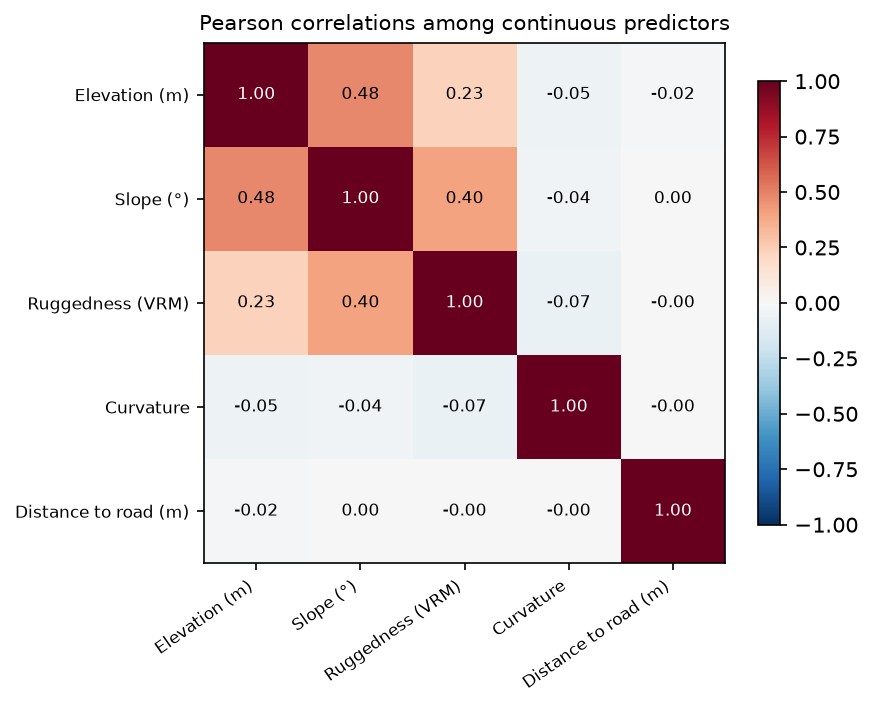
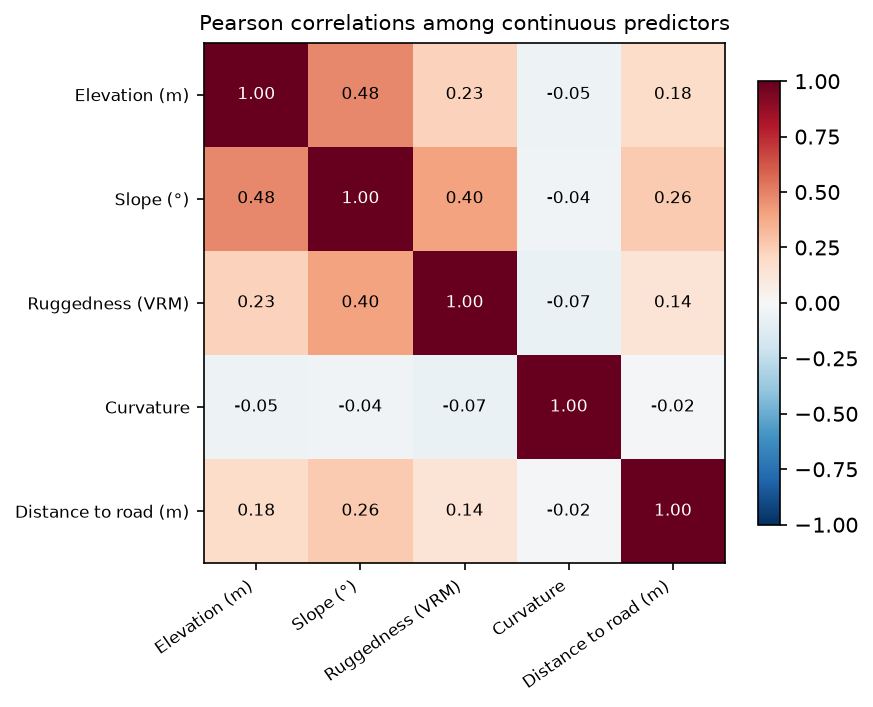
Final model: road-class models top all 15 (paved avoidance +0.10, unpaved attraction -0.10, curvature -0.42 emerges), Boyce 0.988, USGS external Spearman 0.523; paper fully integrated

diff --git a/pipeline/build_prediction.py b/pipeline/build_prediction.py
@@ -60,6 +60,12 @@ for v, p in phys.items():
     VEG_LUT[int(v)] = veg_beta(str(p))
 
 paths = {k: D / "dem" / f"nv_{k}_5070.tif" for k in ("dem", "slope", "aspect", "vrm", "curv", "distroad")}
+HAS_CLASS = "scale_PavedProximity" in betas.index
+if HAS_CLASS:
+    paths["distpaved"] = D / "dem/nv_distroad_paved_5070.tif"
+    paths["distunpaved"] = D / "dem/nv_distroad_unpaved_5070.tif"
+    SC["dist_paved_m"] = (mi["dist_paved_m"].mean(), mi["dist_paved_m"].std())
+    SC["dist_unpaved_m"] = (mi["dist_unpaved_m"].mean(), mi["dist_unpaved_m"].std())
 paths["evt"] = Path(EVT_PATH)
 srcs = {k: rasterio.open(p) for k, p in paths.items()}
 eq1_src = rasterio.open(D / "dem/nv_rugg_5070.tif")
@@ -102,6 +108,9 @@ for row0 in range(0, H, BLOCK):
            + b("scale_Elevation") * z(dem, "elevation")
            + b("scale_Curvature") * z(curv, "curvature")
            + b("scale_RoadsProximity") * z(dist, "dist_road_m"))
+    if HAS_CLASS:
+        eta += (b("scale_PavedProximity") * z(rd("distpaved"), "dist_paved_m")
+                + b("scale_UnpavedProximity") * z(rd("distunpaved"), "dist_unpaved_m"))
     dir_arr = np.zeros_like(aspect)
     for lab, (lo, hi) in {"N": (337.5, 22.5), "NE": (22.5, 67.5), "SE": (112.5, 157.5),
                           "S": (157.5, 202.5), "SW": (202.5, 247.5), "W": (247.5, 292.5),

diff --git a/pipeline/eda_figures.py b/pipeline/eda_figures.py
@@ -176,7 +176,10 @@ TERMS = {"m1": "roads + curvature + ruggedness + slope + direction + elevation +
          "m9": "roads + curvature + slope + vegetation",
          "m10": "slope + elevation + vegetation",
          "m11": "ruggedness + slope + vegetation",
-         "m12": "roads + direction + elevation + vegetation"}
+         "m12": "roads + direction + elevation + vegetation",
+         "m13": "paved + unpaved + curvature + ruggedness + slope + direction + elevation + vegetation",
+         "m14": "paved + curvature + ruggedness + slope + direction + elevation + vegetation",
+         "m15": "unpaved + curvature + ruggedness + slope + direction + elevation + vegetation"}
 sel_all = pd.read_csv(ROOT / "reports/v4/model_selection.csv", index_col=0)
 keep2 = [c for c in ("df", "logLik", "AICc", "delta", "weight") if c in sel_all.columns]
 t3 = sel_all[keep2].reset_index().rename(columns={"index": "Model"})

diff --git a/pipeline/validate_usgs.py b/pipeline/validate_usgs.py
@@ -21,7 +21,7 @@ from pyproj import Transformer
 
 ROOT = Path(__file__).resolve().parent.parent
 D = ROOT / "data-local"
-ITEM = "65f37677d34e9853bbf0db38"
+ITEM = "65f389f9d34e9853bbf0e813"
 
 api = f"https://www.sciencebase.gov/catalog/item/{ITEM}?format=json&fields=files"
 with urllib.request.urlopen(api, timeout=120) as r:
@@ -46,7 +46,11 @@ target = pick(tifs)
 if target is None:
     sys.exit("no directly readable .tif candidate; inspect the file list above (may be zipped)")
 print("selected:", target["name"])
-url = "/vsicurl/" + target["url"]
+local = D / "usgs" / target["name"]
+local.parent.mkdir(parents=True, exist_ok=True)
+if not local.exists():
+    urllib.request.urlretrieve(target["url"], local)
+url = str(local)
 
 sa = gpd.read_file(D / "design/study_area_5070.gpkg")
 pts = sa.sample_points(150_000, rng=99).explode(index_parts=False)

diff --git a/pipeline/extract_road_classes.py b/pipeline/extract_road_classes.py
@@ -1,0 +1,17 @@
+# /// script
+# requires-python = ">=3.10"
+# dependencies = ["rasterio", "pandas", "pyarrow"]
+# ///
+"""Append paved/unpaved road distances to model_input."""
+import pandas as pd, rasterio
+from pathlib import Path
+ROOT = Path(__file__).resolve().parent.parent
+D = ROOT / "data-local"
+pts = pd.read_parquet(D / "design/model_input.parquet")
+xy = list(zip(pts.x, pts.y))
+for cls in ("paved", "unpaved"):
+    with rasterio.open(D / f"dem/nv_distroad_{cls}_5070.tif") as src:
+        pts[f"dist_{cls}_m"] = [v[0] for v in src.sample(xy)]
+pts.to_parquet(D / "design/model_input.parquet", index=False)
+pts.to_csv(D / "design/model_input.csv", index=False)
+print("ROAD_CLASS_EXTRACT_COMPLETE", pts[["dist_paved_m","dist_unpaved_m"]].mean().round(0).to_dict())

diff --git a/reports/v4/tables/coefficients.md b/reports/v4/tables/coefficients.md
@@ -1,28 +1,29 @@
 | Term                                                          |   Estimate |   85% CI low |   85% CI high |
 |:--------------------------------------------------------------|-----------:|-------------:|--------------:|
-| (Intercept)                                                   |   -2.565   |    -2.739    |      -2.391   |
-| scale_RoadsProximity                                          |    0.0533  |    -0.005614 |       0.1122  |
-| scale_Curvature                                               |   -0.4266  |    -0.5559   |      -0.2973  |
-| scale_Ruggedness                                              |   -1.016   |    -1.274    |      -0.7584  |
-| scale_Slope                                                   |   -1.194   |    -1.336    |      -1.051   |
-| DirectionN                                                    |   -0.1426  |    -0.3726   |       0.08742 |
-| DirectionNE                                                   |   -0.2777  |    -0.5116   |      -0.0439  |
-| DirectionNW                                                   |   -0.5604  |    -0.786    |      -0.3349  |
-| DirectionS                                                    |   -0.07249 |    -0.3014   |       0.1564  |
-| DirectionSE                                                   |    0.06935 |    -0.1252   |       0.2639  |
-| DirectionSW                                                   |   -0.5066  |    -0.7721   |      -0.2411  |
-| DirectionW                                                    |   -0.5604  |    -0.7898   |      -0.3309  |
-| scale_Elevation                                               |    0.9602  |     0.8718   |       1.049   |
-| VegetationAgricultural                                        |   -1.486   |    -2.527    |      -0.4446  |
-| VegetationConifer                                             |   -3.936   |    -4.964    |      -2.908   |
-| VegetationConifer-Hardwood                                    |  -13.02    |  -690.9      |     664.8     |
-| VegetationDeveloped-Roads                                     |   -0.758   |    -2.259    |       0.7432  |
-| VegetationExotic Herbaceous                                   |    0.3096  |     0.06073  |       0.5584  |
-| VegetationExotic Tree-Shrub                                   |   -0.3303  |    -0.744    |       0.08347 |
-| VegetationGrassland                                           |    0.4142  |     0.1246   |       0.7038  |
-| VegetationHardwood                                            |  -14.01    |  -695.5      |     667.5     |
-| VegetationOpen Water                                          |  -14.41    | -1013        |     984.5     |
-| VegetationOther                                               |  -14.01    |  -856.4      |     828.4     |
-| VegetationQuarries-Strip Mines-Gravel Pits-Well and Wind Pads |    0.6215  |    -1.038    |       2.281   |
-| VegetationRiparian                                            |   -1.128   |    -1.633    |      -0.6225  |
-| VegetationSparsely Vegetated                                  |   -2.622   |    -4.075    |      -1.169   |
+| (Intercept)                                                   |   -2.571   |     -2.745   |     -2.397    |
+| scale_PavedProximity                                          |    0.1022  |      0.03466 |      0.1698   |
+| scale_UnpavedProximity                                        |   -0.09716 |     -0.1987  |      0.004364 |
+| scale_Curvature                                               |   -0.4193  |     -0.5484  |     -0.2901   |
+| scale_Ruggedness                                              |   -1.005   |     -1.263   |     -0.7463   |
+| scale_Slope                                                   |   -1.18    |     -1.324   |     -1.036    |
+| DirectionN                                                    |   -0.1389  |     -0.369   |      0.09118  |
+| DirectionNE                                                   |   -0.285   |     -0.5188  |     -0.0512   |
+| DirectionNW                                                   |   -0.5536  |     -0.7792  |     -0.328    |
+| DirectionS                                                    |   -0.05419 |     -0.2832  |      0.1749   |
+| DirectionSE                                                   |    0.07477 |     -0.1199  |      0.2695   |
+| DirectionSW                                                   |   -0.5007  |     -0.7662  |     -0.2351   |
+| DirectionW                                                    |   -0.5512  |     -0.7805  |     -0.3219   |
+| scale_Elevation                                               |    0.9581  |      0.8693  |      1.047    |
+| VegetationAgricultural                                        |   -1.491   |     -2.532   |     -0.4505   |
+| VegetationConifer                                             |   -3.485   |     -4.328   |     -2.642    |
+| VegetationConifer-Hardwood                                    |  -13.06    |   -697.5     |    671.4      |
+| VegetationDeveloped-Roads                                     |   -1.029   |     -2.519   |      0.4618   |
+| VegetationExotic Herbaceous                                   |    0.2121  |     -0.04626 |      0.4705   |
+| VegetationExotic Tree-Shrub                                   |   -0.5815  |     -1.062   |     -0.1006   |
+| VegetationGrassland                                           |    0.4468  |      0.1674  |      0.7261   |
+| VegetationHardwood                                            |  -14.31    |   -749.6     |    721        |
+| VegetationOpen Water                                          |  -14.32    |   -958.5     |    929.9      |
+| VegetationOther                                               |  -13.75    |   -786.7     |    759.2      |
+| VegetationQuarries-Strip Mines-Gravel Pits-Well and Wind Pads |    0.6132  |     -1.041   |      2.267    |
+| VegetationRiparian                                            |   -1.051   |     -1.532   |     -0.5696   |
+| VegetationSparsely Vegetated                                  |   -1.859   |     -2.898   |     -0.8198   |

diff --git a/reports/v4/tables/model_selection.md b/reports/v4/tables/model_selection.md
@@ -1,14 +1,17 @@
-| Model   | Terms                                                                       |   df |   logLik |   AICc |   delta |    weight |
-|:--------|:----------------------------------------------------------------------------|-----:|---------:|-------:|--------:|----------:|
-| m1      | roads + curvature + ruggedness + slope + direction + elevation + vegetation |   26 |   -2,008 |  4,069 |    0    | 1         |
-| m7      | ruggedness + slope + direction + elevation + vegetation                     |   24 |   -2,022 |  4,091 |   22.35 | 1.401e-05 |
-| m2      | roads + ruggedness + slope + direction + elevation + vegetation             |   25 |   -2,021 |  4,092 |   22.8  | 1.122e-05 |
-| m8      | roads + slope + direction + elevation + vegetation                          |   24 |   -2,040 |  4,128 |   58.92 | 1.608e-13 |
-| m5      | curvature + slope + elevation + vegetation                                  |   17 |   -2,055 |  4,143 |   74.26 | 7.504e-17 |
-| m10     | slope + elevation + vegetation                                              |   16 |   -2,059 |  4,150 |   80.84 | 2.797e-18 |
-| m4      | roads + ruggedness + direction + elevation + vegetation                     |   24 |   -2,121 |  4,290 |  221.5  | 7.947e-49 |
-| m11     | ruggedness + slope + vegetation                                             |   16 |   -2,170 |  4,372 |  303.2  | 1.424e-66 |
-| m3      | roads + ruggedness + slope + vegetation                                     |   17 |   -2,170 |  4,374 |  305.2  | 5.225e-67 |
-| m9      | roads + curvature + slope + vegetation                                      |   17 |   -2,176 |  4,387 |  318.1  | 8.463e-70 |
-| m6      | roads + slope + vegetation                                                  |   16 |   -2,183 |  4,397 |  328.5  | 4.542e-72 |
-| m12     | roads + direction + elevation + vegetation                                  |   23 |   -2,232 |  4,509 |  440.2  | 2.586e-96 |
+| Model   | Terms                                                                                 |   df |   logLik |   AICc |   delta |    weight |
+|:--------|:--------------------------------------------------------------------------------------|-----:|---------:|-------:|--------:|----------:|
+| m13     | paved + unpaved + curvature + ruggedness + slope + direction + elevation + vegetation |   27 |   -2,009 |  4,072 |   0     | 0.7248    |
+| m14     | paved + curvature + ruggedness + slope + direction + elevation + vegetation           |   26 |   -2,011 |  4,075 |   2.677 | 0.1901    |
+| m15     | unpaved + curvature + ruggedness + slope + direction + elevation + vegetation         |   26 |   -2,013 |  4,077 |   5.138 | 0.05552   |
+| m1      | roads + curvature + ruggedness + slope + direction + elevation + vegetation           |   26 |   -2,013 |  4,079 |   6.393 | 0.02965   |
+| m2      | roads + ruggedness + slope + direction + elevation + vegetation                       |   25 |   -2,025 |  4,100 |  28.25  | 5.316e-07 |
+| m7      | ruggedness + slope + direction + elevation + vegetation                               |   24 |   -2,026 |  4,101 |  28.68  | 4.3e-07   |
+| m8      | roads + slope + direction + elevation + vegetation                                    |   24 |   -2,044 |  4,135 |  63.23  | 1.35e-14  |
+| m5      | curvature + slope + elevation + vegetation                                            |   17 |   -2,059 |  4,152 |  80.05  | 3.006e-18 |
+| m10     | slope + elevation + vegetation                                                        |   16 |   -2,063 |  4,158 |  86.3   | 1.32e-19  |
+| m4      | roads + ruggedness + direction + elevation + vegetation                               |   24 |   -2,119 |  4,287 | 214.4   | 2.056e-47 |
+| m11     | ruggedness + slope + vegetation                                                       |   16 |   -2,171 |  4,374 | 302.1   | 1.847e-66 |
+| m3      | roads + ruggedness + slope + vegetation                                               |   17 |   -2,171 |  4,376 | 303.6   | 8.518e-67 |
+| m9      | roads + curvature + slope + vegetation                                                |   17 |   -2,177 |  4,388 | 316     | 1.765e-69 |
+| m6      | roads + slope + vegetation                                                            |   16 |   -2,183 |  4,399 | 326.7   | 8.324e-72 |
+| m12     | roads + direction + elevation + vegetation                                            |   23 |   -2,218 |  4,482 | 409.7   | 7.821e-90 |

diff --git a/reports/v4/tables/summary_stats.md b/reports/v4/tables/summary_stats.md
@@ -1,12 +1,12 @@
-| Variable             | Sites     |          Mean |           SD |          Min |         Max |
-|:---------------------|:----------|--------------:|-------------:|-------------:|------------:|
-| Elevation (m)        | used      |  1923         |   206.2      | 1277         |  2880       |
-| Elevation (m)        | available |  1880         |   302.9      | 1042         |  3354       |
-| Slope (°)            | used      |     3.67      |     3.443    |    0.004454  |    29.6     |
-| Slope (°)            | available |     8.194     |     8.437    |    0         |    46.17    |
-| Ruggedness (VRM)     | used      |     0.0004637 |     0.001357 |    1.45e-08  |     0.0169  |
-| Ruggedness (VRM)     | available |     0.001972  |     0.004534 |   -1.066e-14 |     0.07878 |
-| Curvature            | used      |    -0.02516   |     0.1541   |   -1.137     |     0.9853  |
-| Curvature            | available |     0.0004905 |     0.3124   |   -2.844     |     2.291   |
-| Distance to road (m) | used      | 16030         | 12200        |   64.11      | 57030       |
-| Distance to road (m) | available | 15570         | 12730        |    9.429     | 73590       |
+| Variable             | Sites     |         Mean |          SD |          Min |         Max |
+|:---------------------|:----------|-------------:|------------:|-------------:|------------:|
+| Elevation (m)        | used      | 1923         |  206.2      | 1277         |  2880       |
+| Elevation (m)        | available | 1880         |  302.9      | 1042         |  3354       |
+| Slope (°)            | used      |    3.67      |    3.443    |    0.004454  |    29.6     |
+| Slope (°)            | available |    8.194     |    8.437    |    0         |    46.17    |
+| Ruggedness (VRM)     | used      |    0.0004637 |    0.001357 |    1.45e-08  |     0.0169  |
+| Ruggedness (VRM)     | available |    0.001972  |    0.004534 |   -1.066e-14 |     0.07878 |
+| Curvature            | used      |   -0.02516   |    0.1541   |   -1.137     |     0.9853  |
+| Curvature            | available |    0.0004905 |    0.3124   |   -2.844     |     2.291   |
+| Distance to road (m) | used      |  699         |  751.1      |    0         |  4513       |
+| Distance to road (m) | available |  893.1       | 1070        |    0         | 30190       |

diff --git a/reports/v4/tables/bin_agreement.md b/reports/v4/tables/bin_agreement.md
@@ -1,7 +1,7 @@
 |              | v4 very low   | v4 low   | v4 moderate   | v4 high   | v4 very high   |
 |:-------------|:--------------|:---------|:--------------|:----------|:---------------|
-| v3 very low  | 14.6%         | 4.3%     | 0.7%          | 0.2%      | 0.1%           |
-| v3 low       | 4.3%          | 10.6%    | 4.6%          | 0.3%      | 0.1%           |
-| v3 moderate  | 0.7%          | 3.5%     | 8.9%          | 6.4%      | 0.5%           |
-| v3 high      | 0.2%          | 1.1%     | 2.8%          | 9.6%      | 6.2%           |
-| v3 very high | 0.2%          | 0.5%     | 2.9%          | 3.4%      | 13.1%          |
+| v3 very low  | 14.6%         | 4.3%     | 0.8%          | 0.2%      | 0.1%           |
+| v3 low       | 4.3%          | 10.5%    | 4.7%          | 0.4%      | 0.1%           |
+| v3 moderate  | 0.7%          | 3.5%     | 8.8%          | 6.4%      | 0.6%           |
+| v3 high      | 0.2%          | 1.2%     | 2.9%          | 9.5%      | 6.2%           |
+| v3 very high | 0.2%          | 0.5%     | 2.9%          | 3.5%      | 12.9%          |

diff --git a/reports/v4/tables/boyce.md b/reports/v4/tables/boyce.md
@@ -1,14 +1,14 @@
 |   class midpoint |   P/E ratio |
 |-----------------:|------------:|
-|           0.0581 |        0.37 |
-|           0.1097 |        1.25 |
-|           0.1613 |        2.01 |
-|           0.213  |        2.67 |
-|           0.2646 |        3.63 |
-|           0.3162 |        4.34 |
-|           0.3679 |        4.86 |
-|           0.4195 |        4.07 |
-|           0.4711 |        3.29 |
-|           0.5228 |        7.67 |
+|           0.0592 |        0.37 |
+|           0.1118 |        1.28 |
+|           0.1644 |        2.03 |
+|           0.217  |        2.65 |
+|           0.2696 |        3.63 |
+|           0.3222 |        4.15 |
+|           0.3748 |        5.02 |
+|           0.4274 |        4.68 |
+|           0.48   |        5.03 |
+|           0.5326 |        7.8  |
 
-**Continuous Boyce index: 0.842**
+**Continuous Boyce index: 0.988**

diff --git a/reports/v4/tables/prediction_bins_v4.md b/reports/v4/tables/prediction_bins_v4.md
@@ -1,7 +1,7 @@
 | Bin       | Share of study area   | Probability range   |
 |:----------|:----------------------|:--------------------|
 | very low  | 20.0%                 | < 0.006             |
-| low       | 20.0%                 | 0.006–0.034         |
-| moderate  | 20.0%                 | 0.034–0.082         |
-| high      | 20.0%                 | 0.082–0.147         |
-| very high | 20.0%                 | > 0.147             |
+| low       | 20.0%                 | 0.006–0.033         |
+| moderate  | 20.0%                 | 0.033–0.081         |
+| high      | 20.0%                 | 0.081–0.148         |
+| very high | 20.0%                 | > 0.148             |

diff --git a/reports/v4/tables/validation.md b/reports/v4/tables/validation.md
@@ -4,4 +4,4 @@
 | Slope (°)            | 8.219             |               8.194     |     8.051    |      8.337    | yes       |
 | Ruggedness (VRM)     | 0.002068          |               0.001972  |     0.001895 |      0.002049 | no        |
 | Curvature            | -0.001529         |               0.0004905 |    -0.004819 |      0.0058   | yes       |
-| Distance to road (m) | —                 |           15570         | 15350        |  15780        | yes       |
+| Distance to road (m) | —                 |             893.1       |   874.9      |    911.3      | yes       |
